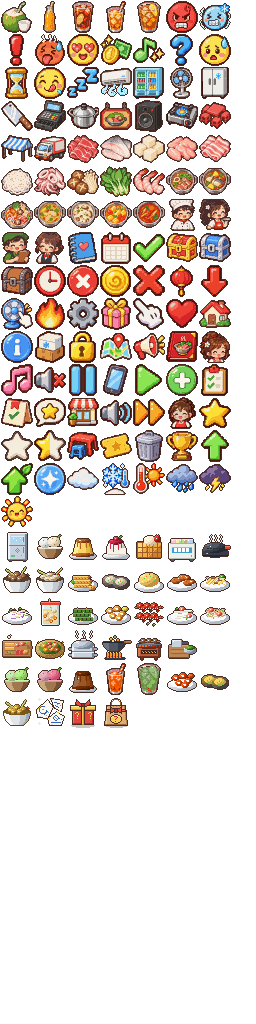
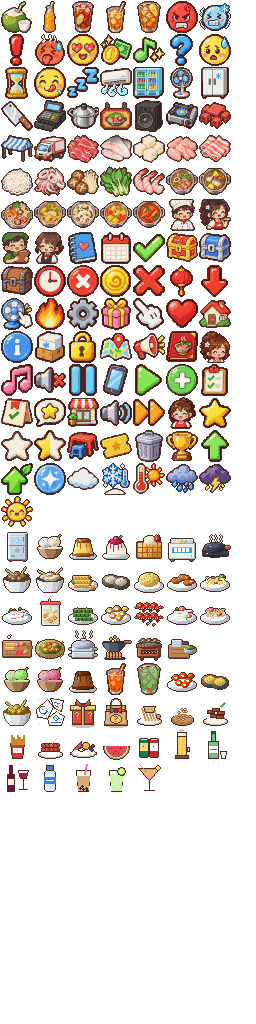
Lẩu Ơi v1.24b: thực đơn Karaoke & Photo trong Hộp mù, nút Đóng cửa sớm trong Tạm dừng
- 15 món mới mở trong Hộp mù (bộ lọc "Đồ ăn uống Karaoke"): khô mực, đậu phộng, bò khô, khoai tây chiên,
  xúc xích, đĩa trái cây, dưa hấu, bia lon, tháp bia, soju, rượu vang, nước suối, trà sữa, soda chanh, cocktail
- Khách vào hát / chụp ảnh tự gọi thêm các món đã mở (Karaoke: bia rượu, mồi; Photo: nước, trái cây), cộng vào doanh thu
- Thực đơn ▸ Giá bán ▸ Vé Karaoke & Photo có mục "Thực đơn trong phòng"; báo cáo cuối ngày ghi số món
- Bảng Tạm dừng có nút "Đóng cửa sớm" (hỏi lại trước khi đóng)

Claude-Session: https://claude.ai/code/session_01BD8ysNy2UsXiFAiTavnXvs

diff --git a/web/quanlau/src/art/data/icons.js b/web/quanlau/src/art/data/icons.js
@@ -1,2 +1,2 @@
 // generated by tools/art/pack.py — do not edit
-export default {"file":"icons.png","frames":{"drk_nuocdua":[1,1,32,32,16,16],"drk_nuocngot":[34,1,32,32,16,16],"drk_nuocsam":[67,1,32,32,16,16],"drk_trada":[100,1,32,32,16,16],"drk_tratac":[133,1,32,32,16,16],"emo_angry":[166,1,32,32,16,16],"emo_cold":[199,1,32,32,16,16],"emo_exclaim":[1,34,32,32,16,16],"emo_hot":[34,34,32,32,16,16],"emo_love":[67,34,32,32,16,16],"emo_money":[100,34,32,32,16,16],"emo_music":[133,34,32,32,16,16],"emo_question":[166,34,32,32,16,16],"emo_sweat":[199,34,32,32,16,16],"emo_wait":[1,67,32,32,16,16],"emo_yum":[34,67,32,32,16,16],"emo_zzz":[67,67,32,32,16,16],"eq_ac":[100,67,32,32,16,16],"eq_cooler":[133,67,32,32,16,16],"eq_fan":[166,67,32,32,16,16],"eq_fridge":[199,67,32,32,16,16],"eq_knife":[1,100,32,32,16,16],"eq_pos":[34,100,32,32,16,16],"eq_pot":[67,100,32,32,16,16],"eq_sign":[100,100,32,32,16,16],"eq_speaker":[133,100,32,32,16,16],"eq_stove":[166,100,32,32,16,16],"eq_table":[199,100,32,32,16,16],"eq_tarp":[1,133,32,32,16,16],"eq_truck":[34,133,32,32,16,16],"ing_bo":[67,133,32,32,16,16],"ing_ca":[100,133,32,32,16,16],"ing_dauphu":[133,133,32,32,16,16],"ing_ga":[166,133,32,32,16,16],"ing_heo":[199,133,32,32,16,16],"ing_mi":[1,166,32,32,16,16],"ing_muc":[34,166,32,32,16,16],"ing_nam":[67,166,32,32,16,16],"ing_rau":[100,166,32,32,16,16],"ing_tom":[133,166,32,32,16,16],"pot_bo":[166,166,32,32,16,16],"pot_chuacay":[199,166,32,32,16,16],"pot_dacbiet":[1,199,32,32,16,16],"pot_ga":[34,199,32,32,16,16],"pot_nam":[67,199,32,32,16,16],"pot_rieucua":[100,199,32,32,16,16],"pot_thai":[133,199,32,32,16,16],"role_daubep":[166,199,32,32,16,16],"role_phucvu":[199,199,32,32,16,16],"role_quankho":[1,232,32,32,16,16],"role_thungan":[34,232,32,32,16,16],"ui_book":[67,232,32,32,16,16],"ui_calendar":[100,232,32,32,16,16],"ui_check":[133,232,32,32,16,16],"ui_chest_gold":[166,232,32,32,16,16],"ui_chest_silver":[199,232,32,32,16,16],"ui_chest_wood":[1,265,32,32,16,16],"ui_clock":[34,265,32,32,16,16],"ui_close":[67,265,32,32,16,16],"ui_coin":[100,265,32,32,16,16],"ui_cross":[133,265,32,32,16,16],"ui_deco":[166,265,32,32,16,16],"ui_down":[199,265,32,32,16,16],"ui_fan_tap":[1,298,32,32,16,16],"ui_fire":[34,298,32,32,16,16],"ui_gear":[67,298,32,32,16,16],"ui_gift":[100,298,32,32,16,16],"ui_hand":[133,298,32,32,16,16],"ui_heart":[166,298,32,32,16,16],"ui_home":[199,298,32,32,16,16],"ui_info":[1,331,32,32,16,16],"ui_kho":[34,331,32,32,16,16],"ui_lock":[67,331,32,32,16,16],"ui_map":[100,331,32,32,16,16],"ui_megaphone":[133,331,32,32,16,16],"ui_menu":[166,331,32,32,16,16],"ui_mom":[199,331,32,32,16,16],"ui_music":[1,364,32,32,16,16],"ui_mute":[34,364,32,32,16,16],"ui_pause":[67,364,32,32,16,16],"ui_phone":[100,364,32,32,16,16],"ui_play":[133,364,32,32,16,16],"ui_plus":[166,364,32,32,16,16],"ui_quest":[199,364,32,32,16,16],"ui_reserve":[1,397,32,32,16,16],"ui_review":[34,397,32,32,16,16],"ui_shop":[67,397,32,32,16,16],"ui_sound":[100,397,32,32,16,16],"ui_speed":[133,397,32,32,16,16],"ui_staff":[166,397,32,32,16,16],"ui_star":[199,397,32,32,16,16],"ui_star_empty":[1,430,32,32,16,16],"ui_star_half":[34,430,32,32,16,16],"ui_table":[67,430,32,32,16,16],"ui_ticket":[100,430,32,32,16,16],"ui_trash":[133,430,32,32,16,16],"ui_trophy":[166,430,32,32,16,16],"ui_up":[199,430,32,32,16,16],"ui_upgrade":[1,463,32,32,16,16],"ui_xp":[34,463,32,32,16,16],"wx_cloud":[67,463,32,32,16,16],"wx_cold":[100,463,32,32,16,16],"wx_hot":[133,463,32,32,16,16],"wx_rain":[166,463,32,32,16,16],"wx_storm":[199,463,32,32,16,16],"wx_sun":[1,496,32,32,16,16],"eq_tudong":[1,530,32,32,16,16],"tm_kem":[34,530,32,32,16,16],"tm_flan":[67,530,32,32,16,16],"tm_panna":[100,530,32,32,16,16],"tm_waffle":[133,530,32,32,16,16],"eq_tukem":[166,530,32,32,16,16],"eq_waffle":[199,530,32,32,16,16],"ak_oc":[1,563,32,32,16,16],"ak_ngeu":[34,563,32,32,16,16],"ak_chagio":[67,563,32,32,16,16],"ak_hau":[100,563,32,32,16,16],"ak_comchien":[133,563,32,32,16,16],"ak_canhga":[166,563,32,32,16,16],"ak_mixao":[199,563,32,32,16,16],"ak_goiga":[1,596,32,32,16,16],"ak_changa":[34,596,32,32,16,16],"ak_bolalot":[67,596,32,32,16,16],"ak_mucchien":[100,596,32,32,16,16],"ak_bachtuoc":[133,596,32,32,16,16],"ak_goingosen":[166,596,32,32,16,16],"ak_mienxao":[199,596,32,32,16,16],"ak_combo":[1,629,32,32,16,16],"ak_met":[34,629,32,32,16,16],"eq_xunghap":[67,629,32,32,16,16],"eq_chaochien":[100,629,32,32,16,16],"eq_vinuong":[133,629,32,32,16,16],"eq_banso":[166,629,32,32,16,16],"tm_kemtra":[1,663,32,32,16,16],"tm_kemdau":[34,663,32,32,16,16],"tm_flancf":[67,663,32,32,16,16],"drk_tradao":[100,663,32,32,16,16],"drk_matcha":[133,663,32,32,16,16],"ak_tomchien":[166,663,32,32,16,16],"ak_hauphomai":[199,663,32,32,16,16],"ak_oclen":[1,696,32,32,16,16],"ui_manh":[34,696,32,32,16,16],"ui_hopmu":[67,696,32,32,16,16],"ui_tuimu":[100,696,32,32,16,16]}};
+export default {"file":"icons.png","frames":{"drk_nuocdua":[1,1,32,32,16,16],"drk_nuocngot":[34,1,32,32,16,16],"drk_nuocsam":[67,1,32,32,16,16],"drk_trada":[100,1,32,32,16,16],"drk_tratac":[133,1,32,32,16,16],"emo_angry":[166,1,32,32,16,16],"emo_cold":[199,1,32,32,16,16],"emo_exclaim":[1,34,32,32,16,16],"emo_hot":[34,34,32,32,16,16],"emo_love":[67,34,32,32,16,16],"emo_money":[100,34,32,32,16,16],"emo_music":[133,34,32,32,16,16],"emo_question":[166,34,32,32,16,16],"emo_sweat":[199,34,32,32,16,16],"emo_wait":[1,67,32,32,16,16],"emo_yum":[34,67,32,32,16,16],"emo_zzz":[67,67,32,32,16,16],"eq_ac":[100,67,32,32,16,16],"eq_cooler":[133,67,32,32,16,16],"eq_fan":[166,67,32,32,16,16],"eq_fridge":[199,67,32,32,16,16],"eq_knife":[1,100,32,32,16,16],"eq_pos":[34,100,32,32,16,16],"eq_pot":[67,100,32,32,16,16],"eq_sign":[100,100,32,32,16,16],"eq_speaker":[133,100,32,32,16,16],"eq_stove":[166,100,32,32,16,16],"eq_table":[199,100,32,32,16,16],"eq_tarp":[1,133,32,32,16,16],"eq_truck":[34,133,32,32,16,16],"ing_bo":[67,133,32,32,16,16],"ing_ca":[100,133,32,32,16,16],"ing_dauphu":[133,133,32,32,16,16],"ing_ga":[166,133,32,32,16,16],"ing_heo":[199,133,32,32,16,16],"ing_mi":[1,166,32,32,16,16],"ing_muc":[34,166,32,32,16,16],"ing_nam":[67,166,32,32,16,16],"ing_rau":[100,166,32,32,16,16],"ing_tom":[133,166,32,32,16,16],"pot_bo":[166,166,32,32,16,16],"pot_chuacay":[199,166,32,32,16,16],"pot_dacbiet":[1,199,32,32,16,16],"pot_ga":[34,199,32,32,16,16],"pot_nam":[67,199,32,32,16,16],"pot_rieucua":[100,199,32,32,16,16],"pot_thai":[133,199,32,32,16,16],"role_daubep":[166,199,32,32,16,16],"role_phucvu":[199,199,32,32,16,16],"role_quankho":[1,232,32,32,16,16],"role_thungan":[34,232,32,32,16,16],"ui_book":[67,232,32,32,16,16],"ui_calendar":[100,232,32,32,16,16],"ui_check":[133,232,32,32,16,16],"ui_chest_gold":[166,232,32,32,16,16],"ui_chest_silver":[199,232,32,32,16,16],"ui_chest_wood":[1,265,32,32,16,16],"ui_clock":[34,265,32,32,16,16],"ui_close":[67,265,32,32,16,16],"ui_coin":[100,265,32,32,16,16],"ui_cross":[133,265,32,32,16,16],"ui_deco":[166,265,32,32,16,16],"ui_down":[199,265,32,32,16,16],"ui_fan_tap":[1,298,32,32,16,16],"ui_fire":[34,298,32,32,16,16],"ui_gear":[67,298,32,32,16,16],"ui_gift":[100,298,32,32,16,16],"ui_hand":[133,298,32,32,16,16],"ui_heart":[166,298,32,32,16,16],"ui_home":[199,298,32,32,16,16],"ui_info":[1,331,32,32,16,16],"ui_kho":[34,331,32,32,16,16],"ui_lock":[67,331,32,32,16,16],"ui_map":[100,331,32,32,16,16],"ui_megaphone":[133,331,32,32,16,16],"ui_menu":[166,331,32,32,16,16],"ui_mom":[199,331,32,32,16,16],"ui_music":[1,364,32,32,16,16],"ui_mute":[34,364,32,32,16,16],"ui_pause":[67,364,32,32,16,16],"ui_phone":[100,364,32,32,16,16],"ui_play":[133,364,32,32,16,16],"ui_plus":[166,364,32,32,16,16],"ui_quest":[199,364,32,32,16,16],"ui_reserve":[1,397,32,32,16,16],"ui_review":[34,397,32,32,16,16],"ui_shop":[67,397,32,32,16,16],"ui_sound":[100,397,32,32,16,16],"ui_speed":[133,397,32,32,16,16],"ui_staff":[166,397,32,32,16,16],"ui_star":[199,397,32,32,16,16],"ui_star_empty":[1,430,32,32,16,16],"ui_star_half":[34,430,32,32,16,16],"ui_table":[67,430,32,32,16,16],"ui_ticket":[100,430,32,32,16,16],"ui_trash":[133,430,32,32,16,16],"ui_trophy":[166,430,32,32,16,16],"ui_up":[199,430,32,32,16,16],"ui_upgrade":[1,463,32,32,16,16],"ui_xp":[34,463,32,32,16,16],"wx_cloud":[67,463,32,32,16,16],"wx_cold":[100,463,32,32,16,16],"wx_hot":[133,463,32,32,16,16],"wx_rain":[166,463,32,32,16,16],"wx_storm":[199,463,32,32,16,16],"wx_sun":[1,496,32,32,16,16],"eq_tudong":[1,530,32,32,16,16],"tm_kem":[34,530,32,32,16,16],"tm_flan":[67,530,32,32,16,16],"tm_panna":[100,530,32,32,16,16],"tm_waffle":[133,530,32,32,16,16],"eq_tukem":[166,530,32,32,16,16],"eq_waffle":[199,530,32,32,16,16],"ak_oc":[1,563,32,32,16,16],"ak_ngeu":[34,563,32,32,16,16],"ak_chagio":[67,563,32,32,16,16],"ak_hau":[100,563,32,32,16,16],"ak_comchien":[133,563,32,32,16,16],"ak_canhga":[166,563,32,32,16,16],"ak_mixao":[199,563,32,32,16,16],"ak_goiga":[1,596,32,32,16,16],"ak_changa":[34,596,32,32,16,16],"ak_bolalot":[67,596,32,32,16,16],"ak_mucchien":[100,596,32,32,16,16],"ak_bachtuoc":[133,596,32,32,16,16],"ak_goingosen":[166,596,32,32,16,16],"ak_mienxao":[199,596,32,32,16,16],"ak_combo":[1,629,32,32,16,16],"ak_met":[34,629,32,32,16,16],"eq_xunghap":[67,629,32,32,16,16],"eq_chaochien":[100,629,32,32,16,16],"eq_vinuong":[133,629,32,32,16,16],"eq_banso":[166,629,32,32,16,16],"tm_kemtra":[1,663,32,32,16,16],"tm_kemdau":[34,663,32,32,16,16],"tm_flancf":[67,663,32,32,16,16],"drk_tradao":[100,663,32,32,16,16],"drk_matcha":[133,663,32,32,16,16],"ak_tomchien":[166,663,32,32,16,16],"ak_hauphomai":[199,663,32,32,16,16],"ak_oclen":[1,696,32,32,16,16],"ui_manh":[34,696,32,32,16,16],"ui_hopmu":[67,696,32,32,16,16],"ui_tuimu":[100,696,32,32,16,16],"fn_khomuc":[133,696,32,32,16,16],"fn_dauphong":[166,696,32,32,16,16],"fn_bokho":[199,696,32,32,16,16],"fn_khoaitay":[1,729,32,32,16,16],"fn_xucxich":[34,729,32,32,16,16],"fn_traicay":[67,729,32,32,16,16],"fn_duahau":[100,729,32,32,16,16],"fn_bia":[133,729,32,32,16,16],"fn_thapbia":[166,729,32,32,16,16],"fn_soju":[199,729,32,32,16,16],"fn_vang":[1,762,32,32,16,16],"fn_suoi":[34,762,32,32,16,16],"fn_trasua":[67,762,32,32,16,16],"fn_soda":[100,762,32,32,16,16],"fn_cocktail":[133,762,32,32,16,16]}};

diff --git a/web/quanlau/src/config.js b/web/quanlau/src/config.js
@@ -837,6 +837,26 @@ export const FUN = {
     photo: { name: 'Vé Photo Studio', icon: 'ui_hopmu', floor: 1, ref: 35, group: [1, 3], stay: [25, 50], perHour: 3.2, desc: 'Chụp ảnh lấy liền, phông hoa giấy, máy gắp thú.' },
     kara: { name: 'Vé Karaoke', icon: 'ui_ticket', floor: 2, ref: 80, group: [2, 4], stay: [45, 90], perHour: 2.2, desc: 'Phòng hát trên lầu: sân khấu, sofa, quầy nước.' },
   },
+  // v1.24 thực đơn trong phòng Karaoke & Photo (mở trong Hộp mù): khách đang chơi gọi thêm, cộng vào doanh thu
+  menuCats: { moi: 'Mồi nhậu', traicay: 'Trái cây', bia: 'Bia', ruou: 'Rượu', nuoc: 'Nước uống' },
+  orderFood: 0.55, orderDrink: 0.75,   // mỗi khách: xác suất gọi 1 món ăn / 1 đồ uống (trong số món đã mở hợp phòng)
+  menu: [
+    { id: 'khomuc', name: 'Khô mực nướng', icon: 'fn_khomuc', cat: 'moi', price: 45, cost: 15, rooms: [2] },
+    { id: 'dauphong', name: 'Đậu phộng rang', icon: 'fn_dauphong', cat: 'moi', price: 15, cost: 4, rooms: [2] },
+    { id: 'bokho', name: 'Bò khô', icon: 'fn_bokho', cat: 'moi', price: 40, cost: 14, rooms: [2] },
+    { id: 'khoaitay', name: 'Khoai tây chiên', icon: 'fn_khoaitay', cat: 'moi', price: 30, cost: 9, rooms: [1] },
+    { id: 'xucxich', name: 'Xúc xích nướng', icon: 'fn_xucxich', cat: 'moi', price: 35, cost: 11, rooms: [2] },
+    { id: 'traicay', name: 'Đĩa trái cây', icon: 'fn_traicay', cat: 'traicay', price: 60, cost: 22, rooms: [1, 2] },
+    { id: 'duahau', name: 'Dưa hấu', icon: 'fn_duahau', cat: 'traicay', price: 30, cost: 9, rooms: [1] },
+    { id: 'bia', name: 'Bia lon', icon: 'fn_bia', cat: 'bia', price: 25, cost: 12, rooms: [2] },
+    { id: 'thapbia', name: 'Tháp bia 3 lít', icon: 'fn_thapbia', cat: 'bia', price: 180, cost: 80, rooms: [2] },
+    { id: 'soju', name: 'Rượu soju', icon: 'fn_soju', cat: 'ruou', price: 70, cost: 30, rooms: [2] },
+    { id: 'vang', name: 'Rượu vang', icon: 'fn_vang', cat: 'ruou', price: 220, cost: 95, rooms: [2] },
+    { id: 'suoi', name: 'Nước suối', icon: 'fn_suoi', cat: 'nuoc', price: 10, cost: 3, rooms: [1, 2] },
+    { id: 'trasua', name: 'Trà sữa trân châu', icon: 'fn_trasua', cat: 'nuoc', price: 35, cost: 12, rooms: [1] },
+    { id: 'soda', name: 'Soda chanh', icon: 'fn_soda', cat: 'nuoc', price: 30, cost: 9, rooms: [1, 2] },
+    { id: 'cocktail', name: 'Cocktail trái cây', icon: 'fn_cocktail', cat: 'nuoc', price: 90, cost: 35, rooms: [2] },
+  ],
   tier5Mult: 1.3,                // nhà hàng lớn (bậc 5) giá gợi ý cao hơn
   minMult: 0.5, maxMult: 2.5,    // giá đặt được = giá gợi ý × [0,5 … 2,5]
   priceExp: 1.6,                 // khách ∝ (giá / gợi ý)^-1,6
@@ -1092,6 +1112,21 @@ export const BOX = {
     { id: 'bx_gt_gaubong', grp: 'giaitri', r: 2, kind: 'deco', ref: 'gt_gaubong', name: 'Gấu bông khổng lồ' },   // v1.24
     { id: 'bx_gt_anhdao', grp: 'giaitri', r: 2, kind: 'deco', ref: 'gt_anhdao', name: 'Cây hoa anh đào' },   // v1.24
     { id: 'bx_gt_bongbong', grp: 'giaitri', r: 3, kind: 'deco', ref: 'gt_bongbong', name: 'Máy bong bóng' },   // v1.24
+    { id: 'bx_fn_khomuc', grp: 'funmenu', r: 1, kind: 'funmenu', ref: 'khomuc', name: 'Khô mực nướng' },   // v1.24 thực đơn Karaoke & Photo
+    { id: 'bx_fn_dauphong', grp: 'funmenu', r: 1, kind: 'funmenu', ref: 'dauphong', name: 'Đậu phộng rang' },   // v1.24 thực đơn Karaoke & Photo
+    { id: 'bx_fn_bokho', grp: 'funmenu', r: 1, kind: 'funmenu', ref: 'bokho', name: 'Bò khô' },   // v1.24 thực đơn Karaoke & Photo
+    { id: 'bx_fn_khoaitay', grp: 'funmenu', r: 1, kind: 'funmenu', ref: 'khoaitay', name: 'Khoai tây chiên' },   // v1.24 thực đơn Karaoke & Photo
+    { id: 'bx_fn_xucxich', grp: 'funmenu', r: 1, kind: 'funmenu', ref: 'xucxich', name: 'Xúc xích nướng' },   // v1.24 thực đơn Karaoke & Photo
+    { id: 'bx_fn_traicay', grp: 'funmenu', r: 2, kind: 'funmenu', ref: 'traicay', name: 'Đĩa trái cây' },   // v1.24 thực đơn Karaoke & Photo
+    { id: 'bx_fn_duahau', grp: 'funmenu', r: 1, kind: 'funmenu', ref: 'duahau', name: 'Dưa hấu' },   // v1.24 thực đơn Karaoke & Photo
+    { id: 'bx_fn_bia', grp: 'funmenu', r: 2, kind: 'funmenu', ref: 'bia', name: 'Bia lon' },   // v1.24 thực đơn Karaoke & Photo
+    { id: 'bx_fn_thapbia', grp: 'funmenu', r: 3, kind: 'funmenu', ref: 'thapbia', name: 'Tháp bia 3 lít' },   // v1.24 thực đơn Karaoke & Photo
+    { id: 'bx_fn_soju', grp: 'funmenu', r: 2, kind: 'funmenu', ref: 'soju', name: 'Rượu soju' },   // v1.24 thực đơn Karaoke & Photo
+    { id: 'bx_fn_vang', grp: 'funmenu', r: 3, kind: 'funmenu', ref: 'vang', name: 'Rượu vang' },   // v1.24 thực đơn Karaoke & Photo
+    { id: 'bx_fn_suoi', grp: 'funmenu', r: 1, kind: 'funmenu', ref: 'suoi', name: 'Nước suối' },   // v1.24 thực đơn Karaoke & Photo
+    { id: 'bx_fn_trasua', grp: 'funmenu', r: 1, kind: 'funmenu', ref: 'trasua', name: 'Trà sữa trân châu' },   // v1.24 thực đơn Karaoke & Photo
+    { id: 'bx_fn_soda', grp: 'funmenu', r: 1, kind: 'funmenu', ref: 'soda', name: 'Soda chanh' },   // v1.24 thực đơn Karaoke & Photo
+    { id: 'bx_fn_cocktail', grp: 'funmenu', r: 3, kind: 'funmenu', ref: 'cocktail', name: 'Cocktail trái cây' },   // v1.24 thực đơn Karaoke & Photo
     { id: 'bx_gt_led', grp: 'giaitri', r: 3, kind: 'deco', ref: 'gt_led', name: 'Đèn LED vũ trường' },   // v1.22
     { id: 'bx_gt_disco', grp: 'giaitri', r: 1, kind: 'deco', ref: 'gt_disco', name: 'Quả cầu disco' },
     { id: 'bx_gt_sankhau', grp: 'giaitri', r: 4, kind: 'deco', ref: 'gt_sankhau', name: 'Sân khấu karaoke' },

diff --git a/web/quanlau/src/core/fun.js b/web/quanlau/src/core/fun.js
@@ -3,7 +3,7 @@
 import * as C from '../config.js';
 import { clamp, round2 } from './util.js';
 import { isWeekend } from './format.js';
-import { addMoney, builtFun, funPlaced } from './economy.js';
+import { addMoney, spend, builtFun, funPlaced } from './economy.js';
 import { makeActor, removeActor, setPath, stepActor, nid } from './world.js';
 import { route } from './routing.js';
 
@@ -121,6 +121,30 @@ function pay(G, g) {
   G.emit('funTicket', { ticket: g.ticket, n, amount, x: a && a.x, y: a && a.y });
 }
 
+// ───────────── v1.24 thực đơn trong phòng (mở trong Hộp mù) ─────────────
+export const menuOwned = (s) => (C.FUN.menu || []).filter((m) => s.box && s.box.got && s.box.got['bx_fn_' + m.id] > 0);
+function orderMenu(G, g) {
+  const s = G.state, rng = G.rng, fl = ticketDef(g.ticket).floor;
+  const own = menuOwned(s).filter((m) => m.rooms.includes(fl));
+  if (!own.length) return;
+  const food = own.filter((m) => m.cat === 'moi' || m.cat === 'traicay'), drink = own.filter((m) => m.cat !== 'moi' && m.cat !== 'traicay');
+  let rev = 0, cost = 0, n = 0;
+  const got = [];
+  for (let i = 0; i < g.members.length; i++) {
+    if (food.length && rng.chance(C.FUN.orderFood)) { const m = rng.pick(food); rev += m.price; cost += m.cost; n++; got.push(m.id); }
+    if (drink.length && rng.chance(C.FUN.orderDrink)) { const m = rng.pick(drink); rev += m.price; cost += m.cost; n++; got.push(m.id); }
+  }
+  if (!n) return;
+  const a = g.members[0];
+  addMoney(G, rev, 'fun', a && a.x, a && a.y);
+  spend(G, 'drinks', cost, 'drinks');
+  s.today.funRevenue = round2((s.today.funRevenue || 0) + rev);
+  s.today.revenue = round2((s.today.revenue || 0) + rev);
+  s.today.funMenu = (s.today.funMenu || 0) + n;
+  for (const id of got) { if (!s.stats.funMenu) s.stats.funMenu = {}; s.stats.funMenu[id] = (s.stats.funMenu[id] || 0) + 1; }
+  G.emit('funMenu', { n, amount: rev, items: got, x: a && a.x, y: a && a.y });
+}
+
 export function funTick(G, dtMin) {
   const s = G.state, w = G.world, L = w.layout;
   const groups = fw(G);
@@ -142,6 +166,7 @@ export function funTick(G, dtMin) {
     if (!g.paid && N && g.members.some((a) => a.x > 199 && a.y < 300)) { g.paid = true; pay(G, g); }   // v1.21 bước qua cửa vòm là mua vé
     if (g.state === 'in' && !g.members.some((a) => a.path)) {
       g.state = 'play';
+      orderMenu(G, g);   // v1.24 gọi thêm mồi nhậu / trái cây / bia / rượu / nước
     } else if (g.state === 'play') {
       g.stay -= dtMin;
       if (g.stay <= 0 || s.phase !== 'open') {
@@ -171,5 +196,5 @@ export function funInfo(G) {
       playing: (G.world.funGroups || []).filter((g) => g.ticket === id && g.state !== 'out').reduce((n, g) => n + g.members.length, 0),
       spots: G.world.layout && G.world.layout.fun ? spotsFor(G, id).length : 0 };
   }
-  return { level: lvl, unlocked: s.tier >= 4, tickets: out, today: { tickets: s.today.funTickets || 0, revenue: s.today.funRevenue || 0 } };
+  return { level: lvl, unlocked: s.tier >= 4, tickets: out, today: { tickets: s.today.funTickets || 0, revenue: s.today.funRevenue || 0, menu: s.today.funMenu || 0 }, menu: (C.FUN.menu || []).map((m) => Object.assign({ owned: menuOwned(s).includes(m) }, m)) };
 }

diff --git a/web/quanlau/src/ui/whatsnew.js b/web/quanlau/src/ui/whatsnew.js
@@ -8,11 +8,16 @@ import { confettiFor } from './screens/kit.js';
 
 export const NEWS = {
   // owner 22/10: "bản thông báo chỉ hiển thị một lần" — mỗi bản cập nhật hiện ĐÚNG 1 lần (nhớ cả trong save lẫn trên máy).
-  ver: 124,
+  ver: 125,
   title: 'Có gì mới trong Lẩu Ơi!',
-  hero: '9 món mới cho Karaoke & Photo!',
+  hero: 'Bia, mồi nhậu, trái cây cho Karaoke & Photo!',
   items: [
-    { icon: 'ui_hopmu', title: '9 món mới cho Karaoke & Photo', lv: 28, isNew: true,
+    { icon: 'fn_thapbia', title: 'Thực đơn Karaoke & Photo', lv: 28, isNew: true,
+      text: `**${C.FUN.menu.length} món mới** trong **Hộp mù**: mồi nhậu (khô mực, bò khô, xúc xích…), trái cây, **bia, tháp bia, soju, rượu vang**, trà sữa, soda, cocktail. Khách vào hát / chụp ảnh tự gọi thêm các món đã mở. Xem ở **Thực đơn ▸ Giá bán ▸ Vé Karaoke & Photo**.`,
+      go: ['shop', 'hopmu'], goLabel: 'Mở Hộp mù' },
+    { icon: 'ui_pause', title: 'Đóng cửa sớm trong nút Tạm dừng', lv: 1, isNew: true,
+      text: 'Bấm **Tạm dừng** là có nút **Đóng cửa sớm**: không nhận khách mới, khách đang ngồi ăn xong rồi chốt sổ.' },
+    { icon: 'ui_hopmu', title: '9 món mới cho Karaoke & Photo', lv: 28,
       text: 'Hộp mù có thêm: **micro đứng, máy tạo khói, màn hình chọn bài, bàn trà kính, đèn laser** cho phòng Karaoke và **bàn trang điểm, gấu bông khổng lồ, cây hoa anh đào, máy bong bóng** cho Photo Studio. Khói, laser, bong bóng và cánh hoa chạy hiệu ứng khi quán mở.',
       go: ['shop', 'hopmu'], goLabel: 'Mở Hộp mù' },
     { icon: 'ui_hopmu', title: 'Đèn LED vũ trường', lv: 28,

diff --git a/web/quanlau/src/ui/sheets/prices.js b/web/quanlau/src/ui/sheets/prices.js
@@ -96,6 +96,19 @@ function ticketsView(body, api, fi) {
   body.appendChild(noteBox('ui_ticket', `Khách mua vé ở cổng riêng bên phải quán rồi vào chơi. Vé rẻ thì đông, vé đắt thì vắng. Bày thêm đồ trong phòng (Quán ▸ Trang trí ▸ Karaoke & Photo) để có thêm chỗ chơi và đông khách hơn. Hôm nay: **${fi.today.tickets} vé · ${fmtShort(fi.today.revenue)}**.`, fi.level ? 'jade' : ''));
   body.appendChild(secTitle('Giá vé', 'mỗi người'));
   for (const id of Object.keys(fi.tickets)) body.appendChild(ticketCard(fi.tickets[id], api));
+  // v1.24 thực đơn trong phòng: mở trong Hộp mù, khách đang chơi tự gọi thêm (giá cố định)
+  const own = fi.menu.filter((m) => m.owned).length;
+  body.appendChild(secTitle('Thực đơn trong phòng', `${own}/${fi.menu.length} món · hôm nay bán ${fi.today.menu || 0}`));
+  body.appendChild(noteBox('ui_hopmu', 'Mồi nhậu, trái cây, bia, rượu, nước uống **mở trong Hộp mù**. Khách vào hát / chụp ảnh sẽ gọi thêm các món đã mở (Karaoke gọi bia rượu, mồi; Photo gọi nước, trái cây).', ''));
+  const grid = div('fnm-grid');
+  for (const cat of Object.keys(C.FUN.menuCats)) {
+    for (const m of fi.menu.filter((x) => x.cat === cat)) {
+      grid.appendChild(div('card fnm' + (m.owned ? '' : ' locked'), ico(m.icon, 32), div('grow', h('b', null, m.name),
+        span('muted sm', C.FUN.menuCats[cat] + ' · ' + (m.rooms.length > 1 ? 'cả 2 phòng' : m.rooms[0] === 2 ? 'Karaoke' : 'Photo'))),
+        m.owned ? span('chip gold num', fmtShort(m.price)) : span('chip', ico('ui_lock', 16), 'Hộp mù')));
+    }
+  }
+  body.appendChild(grid);
 }
 
 export function pricesView(body, api) {

diff --git a/web/quanlau/src/ui/blindbox.js b/web/quanlau/src/ui/blindbox.js
@@ -19,7 +19,7 @@ const KIND = {
 };
 const FILTERS = [
   { id: 'all', label: 'Tất cả' }, { id: 'mon', label: 'Món', kinds: ['food', 'drink'] }, { id: 'ao', label: 'Trang phục', kinds: ['uniform', 'look'] },
-  { id: 'noi', label: 'Nồi, bàn, ghế', kinds: ['pot', 'table', 'chair', 'tform', 'cform'] }, { id: 'deco', label: 'Trang trí', kinds: ['deco'], grp: '' }, { id: 'bep', label: 'Đồ bếp', kinds: ['deco'], grp: 'bep' }, { id: 'gt', label: 'Giải trí', kinds: ['deco'], grp: 'giaitri' }, { id: 'the', label: 'Thẻ', kinds: ['badge'] },
+  { id: 'noi', label: 'Nồi, bàn, ghế', kinds: ['pot', 'table', 'chair', 'tform', 'cform'] }, { id: 'deco', label: 'Trang trí', kinds: ['deco'], grp: '' }, { id: 'bep', label: 'Đồ bếp', kinds: ['deco'], grp: 'bep' }, { id: 'gt', label: 'Giải trí', kinds: ['deco'], grp: 'giaitri' }, { id: 'fnm', label: 'Đồ ăn uống Karaoke', kinds: ['funmenu'] }, { id: 'the', label: 'Thẻ', kinds: ['badge'] },
 ];
 let filter = 'all';
 let gridAnim = true;   // v1.18k: lưới chỉ chạy hiệu ứng nảy khi mới mở tab, không chạy lại sau mỗi lần mở hộp
@@ -52,6 +52,7 @@ export function itemPic(it, size = 40) {
       case 'pot': case 'table': case 'chair': case 'tform': case 'cform': return img(skinPreviewURL(it.kind, it.ref, 3), size);
       case 'deco': return img(decoIconURL(it.ref, Math.max(1, Math.round(size / 24))), size);
       case 'badge': return medal(it, size);
+      case 'funmenu': return ico((C.FUN.menu.find((m) => m.id === it.ref) || {}).icon || 'ui_gift', size);   // v1.24
       default: return ico('ui_gift', size);
     }
   } catch (e) { return ico('ui_gift', size); }

diff --git a/web/quanlau/src/ui/hud.js b/web/quanlau/src/ui/hud.js
@@ -161,6 +161,12 @@ function openPause() {
     build: (m) => frame('Tạm dừng', { icon: 'ui_pause', onClose: () => m.close('x') },
       div('pause-box',
         span('pz-txt', 'Quán đang tạm nghỉ — khách đứng yên, đồng hồ không chạy. Bấm chơi tiếp khi sẵn sàng nha!'),
-        h('button', { class: 'btn jade block', onclick: () => { sfx('click'); m.close('resume'); } }, ico('ui_play', 16), 'Chơi tiếp'))),
+        h('button', { class: 'btn jade block', onclick: () => { sfx('click'); m.close('resume'); } }, ico('ui_play', 16), 'Chơi tiếp'),
+        S().phase === 'open' ? h('button', { class: 'btn red block pz-close', onclick: () => {   // v1.24 đóng cửa sớm ngay trong bảng tạm dừng
+          sfx('click'); m.close('close');
+          ctx.confirm({ title: 'Đóng cửa sớm?', icon: 'ui_close', yes: 'Đóng cửa', no: 'Thôi, bán tiếp',
+            text: 'Không nhận thêm khách mới. Khách đang ngồi ăn xong rồi về, sau đó chốt sổ cuối ngày.',
+            onYes: () => { const r = act('closeEarly'); if (r && r.ok !== false) sfx('door'); } });
+        } }, ico('ui_close', 16), 'Đóng cửa sớm') : null)),
   });
 }

diff --git a/web/quanlau/src/ui/screens/report.js b/web/quanlau/src/ui/screens/report.js
@@ -114,7 +114,7 @@ function build(m, rep) {
   if (shp.orders > 0) sec(noteBox('eq_truck', `**Đơn ship:** giao ${shp.delivered}/${shp.orders} đơn, thu **${fmtMoney(shp.revenue)}**${shp.cancelled ? ` · ${shp.cancelled} đơn bị hủy vì chờ lâu` : ''}.`, shp.cancelled ? 'red' : 'jade'));
   // v1.20 vé khu vui chơi
   const fn = rep.fun || {};
-  if (fn.tickets > 0) sec(noteBox('ui_ticket', `**Khu Karaoke & Photo:** bán ${fn.tickets} vé, thu **${fmtMoney(fn.revenue)}** (đã tính vào doanh thu).`, 'jade'));
+  if (fn.tickets > 0) sec(noteBox('ui_ticket', `**Khu Karaoke & Photo:** bán ${fn.tickets} vé, thu **${fmtMoney(fn.revenue)}**${fn.menu ? ` (gồm ${fn.menu} món ăn uống trong phòng)` : ''} (đã tính vào doanh thu).`, 'jade'));
   // v1.15 vé số: tối nay quay, sáng mai dò
   if ((lot.tickets || 0) + (lot.bets || 0) > 0) sec(noteBox('ui_ticket', `Đã quay xổ số! ${lot.tickets ? `**${lot.tickets} vé số**` : ''}${lot.tickets && lot.bets ? ' và ' : ''}${lot.bets ? `**${lot.bets} phiếu đoán số**` : ''} chờ dò. Sáng mai vào **Quán ▸ Vé số** để dò và nhận thưởng nha.`, 'gold'));
   // v1.14 thuế + khách chê đắt

diff --git a/web/quanlau/style.css b/web/quanlau/style.css
@@ -1694,3 +1694,11 @@ button.hchip:active { transform: translateY(2px); }
 .deco-slots .num { font-size: 18px; line-height: .8; margin-left: 2px; }
 .deco-act { display: flex; flex-wrap: wrap; gap: 4px; justify-content: center; }
 .cl-gate-backup { color: #d2433b; }   /* 22/10 link dự phòng khi tên miền .io.vn lỗi */
+/* v1.24 thực đơn Karaoke & Photo */
+.fnm-grid { display: grid; grid-template-columns: repeat(2, minmax(0, 1fr)); gap: 6px; margin-bottom: 10px; }
+.fnm-grid .card.fnm { display: flex !important; flex-direction: row !important; align-items: center; gap: 6px; padding: 6px 8px; margin: 0; text-align: left; min-height: 0; }
+.fnm-grid .card.fnm > img, .fnm-grid .card.fnm > .ico { width: 32px; height: 32px; flex: none; }
+.fnm-grid .card.fnm .grow { display: flex; flex-direction: column; min-width: 0; flex: 1; }
+.fnm-grid .card.fnm b { font-size: 13px; line-height: 1.2; }
+.fnm-grid .card.fnm .chip { flex: none; font-size: 11px; padding: 3px 6px; }
+.fnm-grid .card.fnm.locked img { filter: grayscale(1) brightness(.75); opacity: .7; }

diff --git a/web/quanlau/src/art/assets.js b/web/quanlau/src/art/assets.js
@@ -8,7 +8,7 @@
 // drawn with blit() at a world position lands 1:1 on buffer pixels (crisp, no resampling).
 // Keep DETAIL in sync with `DETAIL` in src/render/renderer.js.
 export const DETAIL = 2;
-export const ASSET_VER = 'l24';   // v1.18n: icons.png + props.png có thêm khung mới (Hộp mù) — PHẢI tăng khi đổi PNG
+export const ASSET_VER = 'l24b';   // v1.18n: icons.png + props.png có thêm khung mới (Hộp mù) — PHẢI tăng khi đổi PNG
 /** khung có nằm trong ảnh đã tải không (ảnh cũ trong bộ nhớ đệm + dữ liệu khung mới → Safari báo lỗi drawImage) */
 export const frameOk = (rec, f) => !!(rec && rec.img && f) && f[0] + f[2] <= (rec.img.naturalWidth || rec.img.width) && f[1] + f[3] <= (rec.img.naturalHeight || rec.img.height);
 

diff --git a/web/quanlau/src/core/day.js b/web/quanlau/src/core/day.js
@@ -160,7 +160,7 @@ export function buildReport(G) {
     forecast: forecastInfo(G), reservationsTomorrow: s.reservations.map((r) => Object.assign({}, r)),
     goalHint: '', money: s.money,
     priceLost: t.priceLost || 0,                                       // v1.14
-    fun: { tickets: t.funTickets || 0, revenue: t.funRevenue || 0 },   // v1.20 vé khu vui chơi
+    fun: { tickets: t.funTickets || 0, revenue: t.funRevenue || 0, menu: t.funMenu || 0 },   // v1.20 vé khu vui chơi
     ship: { orders: t.shipOrders || 0, delivered: t.shipDelivered || 0, cancelled: t.shipCancelled || 0, revenue: t.shipRevenue || 0 },   // v1.16
     tax: s.tax ? { bill: s.tax.bill ? Object.assign({}, s.tax.bill) : null, base: s.tax.base, since: s.tax.since } : null,
   };

diff --git a/web/quanlau/sw.js b/web/quanlau/sw.js
@@ -1,7 +1,7 @@
 // Lẩu Ơi! service worker (v1.2): makes the game installable as an app (Android "Cài đặt ứng dụng", desktop Chrome/Edge)
 // and lets it open without a connection. Network first: an online player always gets the newest files; the cached
 // copy is only used when the network fails. Saves live in localStorage and are never touched here.
-const CACHE = 'lauoi-v62';
+const CACHE = 'lauoi-v63';
 // Trang thật là /quanlau (vercel.json: trailingSlash:false) nên scope là "/quanlau", không phải "/quanlau/".
 const HOME = '/quanlau';
 const CORE = [HOME, 'index.html', 'style.css', 'manifest.json', 'src/main.js', 'assets/app/icon-192.png'];
